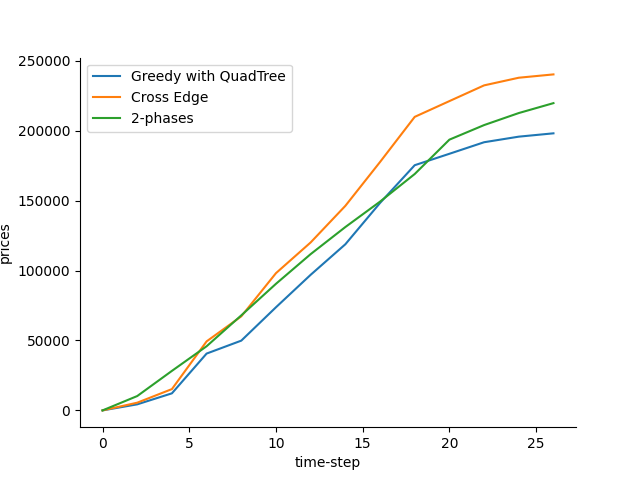
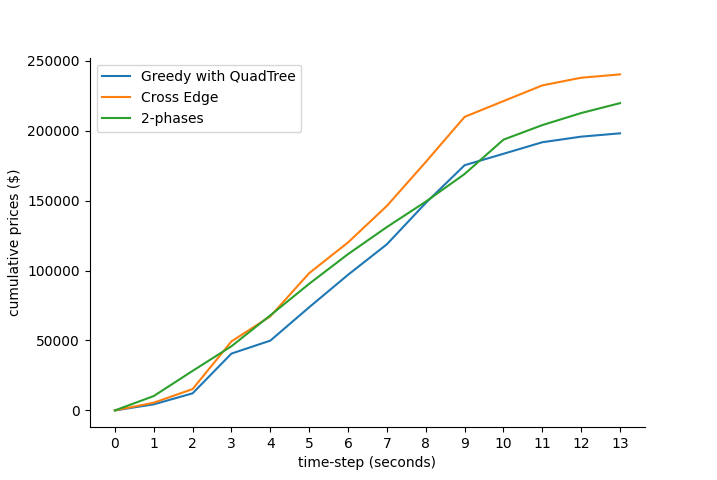
modifying plots

diff --git a/data_analysis/analysis.py b/data_analysis/analysis.py
@@ -8,40 +8,57 @@ SIM_PATH = '/home/jps/GraphGenFrw/Simulator/'
 PATH = f'{SIM_PATH}logfiles/alg'
 
 def cloudletsUsageComparison(algorithms, users, instance):
+    dataframes = []
+    timeStep = 'time-step'
+    xJitterStep = 0.13
+    xJitter = -0.2
     for alg in algorithms:
         df = pd.read_csv(f'{PATH}{alg[0]}-{users}users/cloudlets_usage_{alg[0]}_{instance}.csv')
-        df['time-step'] -= 1
-        df['time-step'] /= 60
+        df[timeStep] -= 1
+        df[timeStep] /= 60
+        df[timeStep] = df[timeStep].apply(lambda x: x + xJitter)
+        xJitter += xJitterStep
         df['algorithm'] = alg[1]
-        buildGraphForAlg(df, alg)   
+        dataframes.append(df)
+    buildGraphForRes(dataframes, 'cpu', 'CPU Usage Comparison')
+    buildGraphForRes(dataframes, 'storage', 'Storage Usage Comparison')
+    buildGraphForRes(dataframes, 'ram', 'RAM Usage Comparison')   
 
-def buildGraphForAlg(df, alg):
-    buildGraphForRes(df, alg, 'cpu', 'CPU Usage Comparison')
-    buildGraphForRes(df, alg, 'storage', 'Storage Usage Comparison')
-    buildGraphForRes(df, alg, 'ram', 'RAM Usage Comparison')
-
-def buildGraphForRes(df, alg, res, title):
+def buildGraphForRes(dfs, res, title):
     fig, ax = plt.subplots(figsize=(20, 10))
-    ax.set_xlabel('Optimization call Δt (every 1 minute in simulation time)')
+    ax.set_xlabel('time-step (minutes)')
+    ax.set_xticks(np.arange(0, len(dfs[0]['time-step']), 1))
+    bar_width = 0.5
+    bar_positions = np.arange(len(dfs[0]['time-step']))
+    offset = bar_width / 4
+    offsetFactor = -1.5
+    for i in range(len(dfs)):
+        ax.bar(bar_positions + offsetFactor*offset, dfs[i][f'unused {res}'], 
+               width=bar_width/4, align='center', label=dfs[i]['algorithm'][0],
+               alpha=0.5)
+        offsetFactor += 1
+    ax.set_ylabel(f'sum of unused {res.upper()} (%)', color='blue', fontsize=14)
     
-    ax.errorbar(df['time-step'], df[f'used {res} avg'], yerr=df[f'used {res} std'], fmt='-o', label=f'Average of used {res}')
-    ax.bar(df['time-step'], df[f'unused {res}'], alpha=0.5, label=f'Unused {res}')
-    ax.set_ylabel(f'{res.upper()} (%)')
-    
-    ax.set_title(f'{title} - {alg[1]}')
-    ax.yaxis.set_ticks(np.arange(0, 1500, 100))
+    ax.set_title(f'{title}')
     ax.legend()
 
-    rects = ax.patches
-    labels = [f"{i} cloudlets" for i in df['used cloudlets']]
+    ax2 = ax.twinx()
+    for i in range(len(dfs)):
+        ax2.errorbar(dfs[i]['time-step'], dfs[i][f'used {res} avg'], 
+                     yerr=dfs[i][f'used {res} std'], fmt='-o', markersize=4,
+                     label=f'Average of used {res}', capsize=5)
+    ax2.set_ylabel(f'average {res.upper()} usage (%)', color='red', fontsize=14)
 
-    for rect, label in zip(rects, labels):
-        height = rect.get_height()
-        ax.text(
-            rect.get_x() + rect.get_width() / 2, height + 5, label, ha="center", va="bottom"
-        )
+    # rects = ax.patches
+    # labels = [f"{i} cloudlets" for i in df['used cloudlets']]
 
-    plt.savefig(f'{SIM_PATH}data_analysis/{res}_{alg[0]}_comparison_.png')
+    # for rect, label in zip(rects, labels):
+    #     height = rect.get_height()
+    #     ax.text(
+    #         rect.get_x() + rect.get_width() / 2, height + 5, label, ha="center", va="bottom"
+    #     )
+
+    plt.savefig(f'{SIM_PATH}data_analysis/{res}_comparison_.png')
     plt.show()
 
 def swAndProfitComparison(algorithms, users, instance, xAxis, yAxis):
@@ -52,7 +69,7 @@ def swAndProfitComparison(algorithms, users, instance, xAxis, yAxis):
         df = pd.read_csv(f'{PATH}{alg[0]}-{users}users/{inputFile}_{alg[0]}_{instance}.csv')
         df['algorithm'] = alg[1]
         df['time-step'] -= 1
-        df['time-step'] /= 30
+        df['time-step'] /= 60
         cumulativeSW = [df[yAxis][0]]
         for row_index in range(1, len(df)):
             cumulativeSW.append(cumulativeSW[row_index-1] + df[yAxis][row_index])
@@ -62,9 +79,10 @@ def swAndProfitComparison(algorithms, users, instance, xAxis, yAxis):
     merged_df = pd.concat(dataframes)
     g = sb.lineplot(x=xAxis, y=cumulative, data=merged_df, hue='algorithm')
     g.legend_.set_title(None)
+    g.set_xticks(np.arange(0, len(dataframes[0][xAxis]), 1))
     sb.despine()
-    plt.ylabel(yAxis)
-    plt.xlabel(xAxis)
+    plt.ylabel(f'cumulative {yAxis} ($)')
+    plt.xlabel(f'{xAxis} (minutes)')
     plt.savefig(f'{yAxis}_comparison_100.png')
     plt.show()
 
@@ -74,12 +92,13 @@ def generateGraphsLine(algorithms, users, instance, graphType, x, y, ylabel, fil
         df = pd.read_csv(f'{PATH}{alg[0]}-{users}users/{graphType}_{alg[0]}_{instance}.csv')
         df['algorithm'] = alg[1]
         df['time-step'] -= 1
-        df['time-step'] /= 30
+        df['time-step'] /= 60
         dataframes.append(df)
 
     merged_df = pd.concat(dataframes)
     g = sb.lineplot(x=x, y=y, data=merged_df, hue='algorithm', errorbar=('ci', 1), alpha=0.6)
     g.legend_.set_title(None)
+    g.set_xticks(np.arange(0, len(dataframes[0][x]), 1))
     
     plt.ylabel(ylabel)
     plt.savefig(f'{fileName}_comparison.png')
@@ -108,7 +127,7 @@ def plotWinners(algorithms, users, instance, graphType, x, y, ylabel, fileName):
     ax.bar(bar_positions + 0.5*offset, dataframes[2][y], width=bar_width/4, align='center', label=dataframes[2]['algorithm'][0])
     ax.bar(bar_positions + 1.5*offset, dataframes[3][y], width=bar_width/4, align='center', label=dataframes[3]['algorithm'][0])
 
-    ax.set_xlabel(x)
+    ax.set_xlabel(f'{x} (minutes)')
     ax.set_ylabel(ylabel)
     ax.set_xticks(bar_positions)
     ax.set_yticks(np.arange(0, 101, 10))
@@ -197,7 +216,8 @@ def buildBoxplot(algorithms, users, instance, yType, x, y, ylabel, fileName):
 
     plt.figure(figsize=(10, 6))
 
-    sb.boxplot(data=combinedDf, x='group', y=y, hue='algorithm', palette='Set3')
+    g = sb.boxplot(data=combinedDf, x='group', y=y, hue='algorithm')
+    g.legend_.set_title(None)
     plt.xlabel(x)
     plt.ylabel(ylabel)
     plt.savefig(f'{fileName}_comparison.png')
@@ -213,12 +233,19 @@ instance = 11
 byTimeStep = 'time-step'
 byUsers = 'number of users'
 
-plotWinners(algorithms_, users, instance, 'prices', byTimeStep, 'number of winners', 'number of winners', 'winners_100')
-
-# buildBarPlot(algorithms_, users, instance, byTimeStep, 'number of users', 'users_bar')
+# plotWinners(algorithms_, users, instance, 'prices', byTimeStep, 'number of winners', 'number of winners', 'winners_100')
 
 # buildBoxplot(algorithms_, users, instance, 'latencies', byUsers, 
-#               'avg latency (for the allocated)', 'latency (seconds)', 'lat_100')
+#              'avg latency (for the allocated)', 'latency (seconds)', 'lat_100')
+
+buildBoxplot(algorithms_, users, instance, 'cloudlets_usage', byUsers,
+                'used cpu avg', 'cpu usage (%)', 'cpu_boxplot')
+
+buildBoxplot(algorithms_, users, instance, 'cloudlets_usage', byUsers,
+                'used ram avg', 'ram usage (%)', 'ram_boxplot')
+
+buildBoxplot(algorithms_, users, instance, 'cloudlets_usage', byUsers,
+                'used storage avg', 'storage usage (%)', 'storage_boxplot')
 
 # plotLatencyByComp(algorithms_, users, instance, 'latencies', byTimeStep, 
 #                'avg latency (for the allocated)', 'how much worse (%)',
@@ -239,5 +266,5 @@ plotWinners(algorithms_, users, instance, 'prices', byTimeStep, 'number of winne
 # generateGraphsLine(algorithms_, users, instance, 'prices', byTimeStep, 'number of winners', 
 #                'winnner users', 'winners_100', 0.1, 0)
 
-# swAndProfitComparison(algorithms_noVCG, users, instance, byTimeStep, 'social welfare')
+# swAndProfitComparison(algorithms_, users, instance, byTimeStep, 'social welfare')
 # swAndProfitComparison(algorithms_noVCG, users, instance, byTimeStep, 'prices')

diff --git a/events/event.py b/events/event.py
@@ -192,13 +192,16 @@ def optimizeAlloc(simClock, heapSing, eTuple):
     algorithm = cloudletsSing.getAlgorithm()
     quadtree = utils.buildQuadtree(cloudletsSing.getList(), usersSing.getList())
     detectedCloudletsPerUser = utils.detectCloudletsFromQT(usersSing.getList(), quadtree) # dict: uId -> list of cloudlets
+    detectedUsersPerCloudlet = utils.detectUsersFromQT(cloudletsSing.getList(), 
+                                                    cloudletsSing.getList()[0].coverageArea, 
+                                                    quadtree) # dict: cId -> list of users
     resetUserPrices()
 
     startTime = time.time()
     if (algorithm == PRED_HEDGE or algorithm == PRED_TCHAPEU or algorithm == PRED_TCHAPEU_DISC) and TimerSingleton().getTimerValue() <= 121:
         result = randomAlloc(quadtree)
     else:
-        result = allocationAlgorithm(cloudletsSing.getList(), usersSing.getList(), algorithm, quadtree, detectedCloudletsPerUser)
+        result = allocationAlgorithm(cloudletsSing.getList(), usersSing.getList(), algorithm, quadtree, detectedCloudletsPerUser, detectedUsersPerCloudlet)
     endTime = time.time()
     
 
@@ -230,13 +233,18 @@ def initialAlloc(simClock, heapSing, eTuple):
     
     algorithm = cloudletsSing.getAlgorithm()
     quadtree = utils.buildQuadtree(cloudletsSing.getList(), usersSing.getList())
-    detectedCloudletsPerUser = utils.detectCloudletsFromQT(usersSing.getList(), quadtree) # dict: uId -> list of cloudlets
+    detectedCloudletsPerUser = utils.detectCloudletsFromQT(usersSing.getList(), 
+                                                           quadtree) # dict: uId -> list of cloudlets
+    detectedUsersPerCloudlet = utils.detectUsersFromQT(cloudletsSing.getList(), 
+                                                       cloudletsSing.getList()[0].coverageArea, 
+                                                       quadtree) # dict: cId -> list of users
 
     startTime = time.time()
     if algorithm == PRED_HEDGE or algorithm == PRED_TCHAPEU or algorithm == PRED_TCHAPEU_DISC:
         result = randomAlloc(quadtree)
     else:
-        result = allocationAlgorithm(cloudletsSing.getList(), usersSing.getList(), algorithm, quadtree, detectedCloudletsPerUser)
+        result = allocationAlgorithm(cloudletsSing.getList(), usersSing.getList(), algorithm, quadtree, 
+                                     detectedCloudletsPerUser, detectedUsersPerCloudlet)
     endTime = time.time()
     
     resetUserPrices()
@@ -290,7 +298,7 @@ def randomAlloc(quadtree):
         result.append((u, randomCloudlet))
     return [0, result]
 
-def allocationAlgorithm(cloudlets, users, algorithm, quadtree, detectedCloudletsPerUser):
+def allocationAlgorithm(cloudlets, users, algorithm, quadtree, detectedCloudletsPerUser, detectedUsersPerCloudlet):
     utils.log(TAG, 'allocationAlgorithm')
 
     if algorithm == GREEDY_QT:
@@ -302,7 +310,6 @@ def allocationAlgorithm(cloudlets, users, algorithm, quadtree, detectedCloudlets
     elif algorithm == CROSS_EDGE_NO_QT:
         return ce_.crossEdgeAlg(cloudlets, users, detectedCloudletsPerUser, withQuadtree=False)
     elif algorithm == TWO_PHASES:
-        detectedUsersPerCloudlet = utils.detectUsersFromQT(cloudlets, cloudlets[0].coverageArea, quadtree) # dict: cId -> list of users
         return twoPhases.twoPhasesAlloc(cloudlets, users, detectedUsersPerCloudlet)
     elif algorithm == EXACT:
         return exact.build(cloudlets, users)

diff --git a/test.py b/test.py
@@ -1,0 +1,43 @@
+import matplotlib.pyplot as plt
+import numpy as np
+
+# Sample data
+categories = ['Category 1', 'Category 2', 'Category 3']
+dataset1 = [10, 15, 8]
+dataset2 = [12, 9, 6]
+dataset3 = [5, 7, 9]
+dataset4 = [14, 11, 13]
+
+# Set the bar width
+bar_width = 0.25
+
+# Set the x positions of the bars
+bar_positions = np.arange(len(categories))
+
+# Calculate the offset for each dataset
+offset = bar_width / 3
+
+# Calculate the width of the fourth bar
+fourth_bar_width = 1.2*bar_width
+
+# Create the figure and the subplot
+fig, ax = plt.subplots()
+
+# Plot the fourth bar representing the fourth dataset
+ax.bar(bar_positions - 1.8*offset, dataset4, width=fourth_bar_width, align='edge', alpha=0.5, color='gray', label='Dataset 4')
+
+# Plot the bars for the first three datasets
+ax.bar(bar_positions - offset, dataset1, width=bar_width/3, align='center', label='Dataset 1')
+ax.bar(bar_positions, dataset2, width=bar_width/3, align='center', label='Dataset 2')
+ax.bar(bar_positions + offset, dataset3, width=bar_width/3, align='center', label='Dataset 3')
+
+# Set the labels, title, and ticks
+ax.set_xlabel('Categories')
+ax.set_ylabel('Values')
+ax.set_title('Superimposed Bar Chart with Shadow')
+ax.set_xticks(bar_positions)
+ax.set_xticklabels(categories)
+ax.legend()
+
+# Show the plot
+plt.show()
